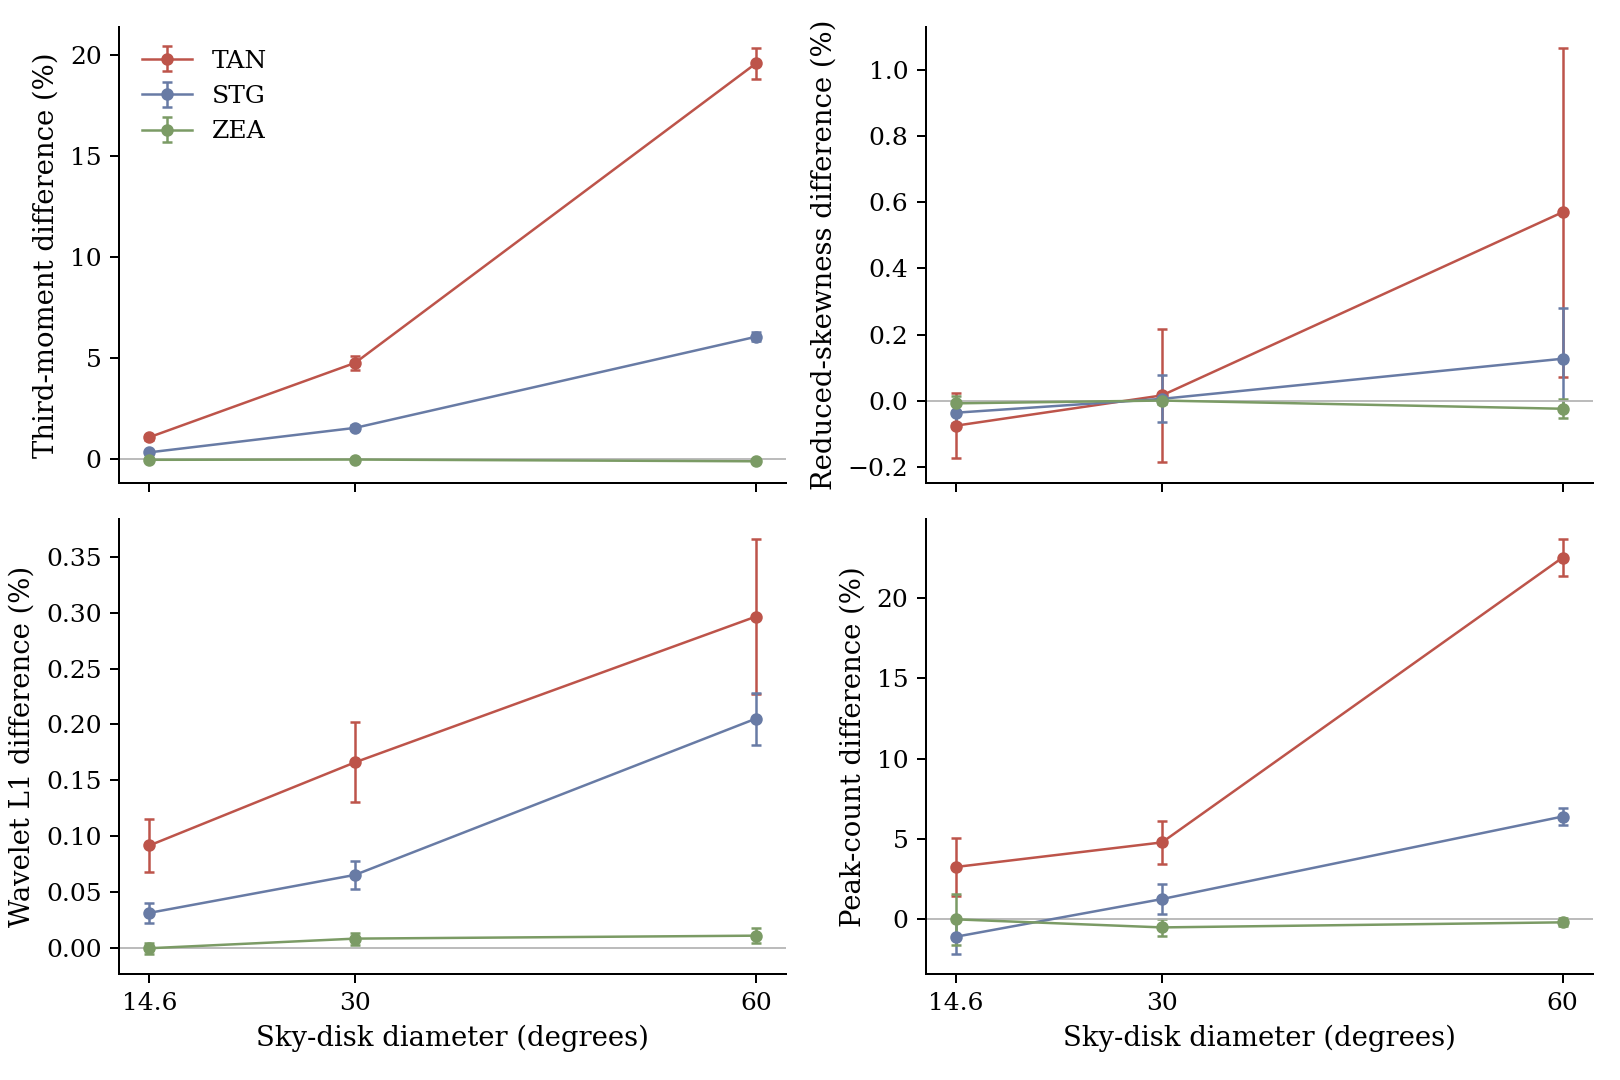
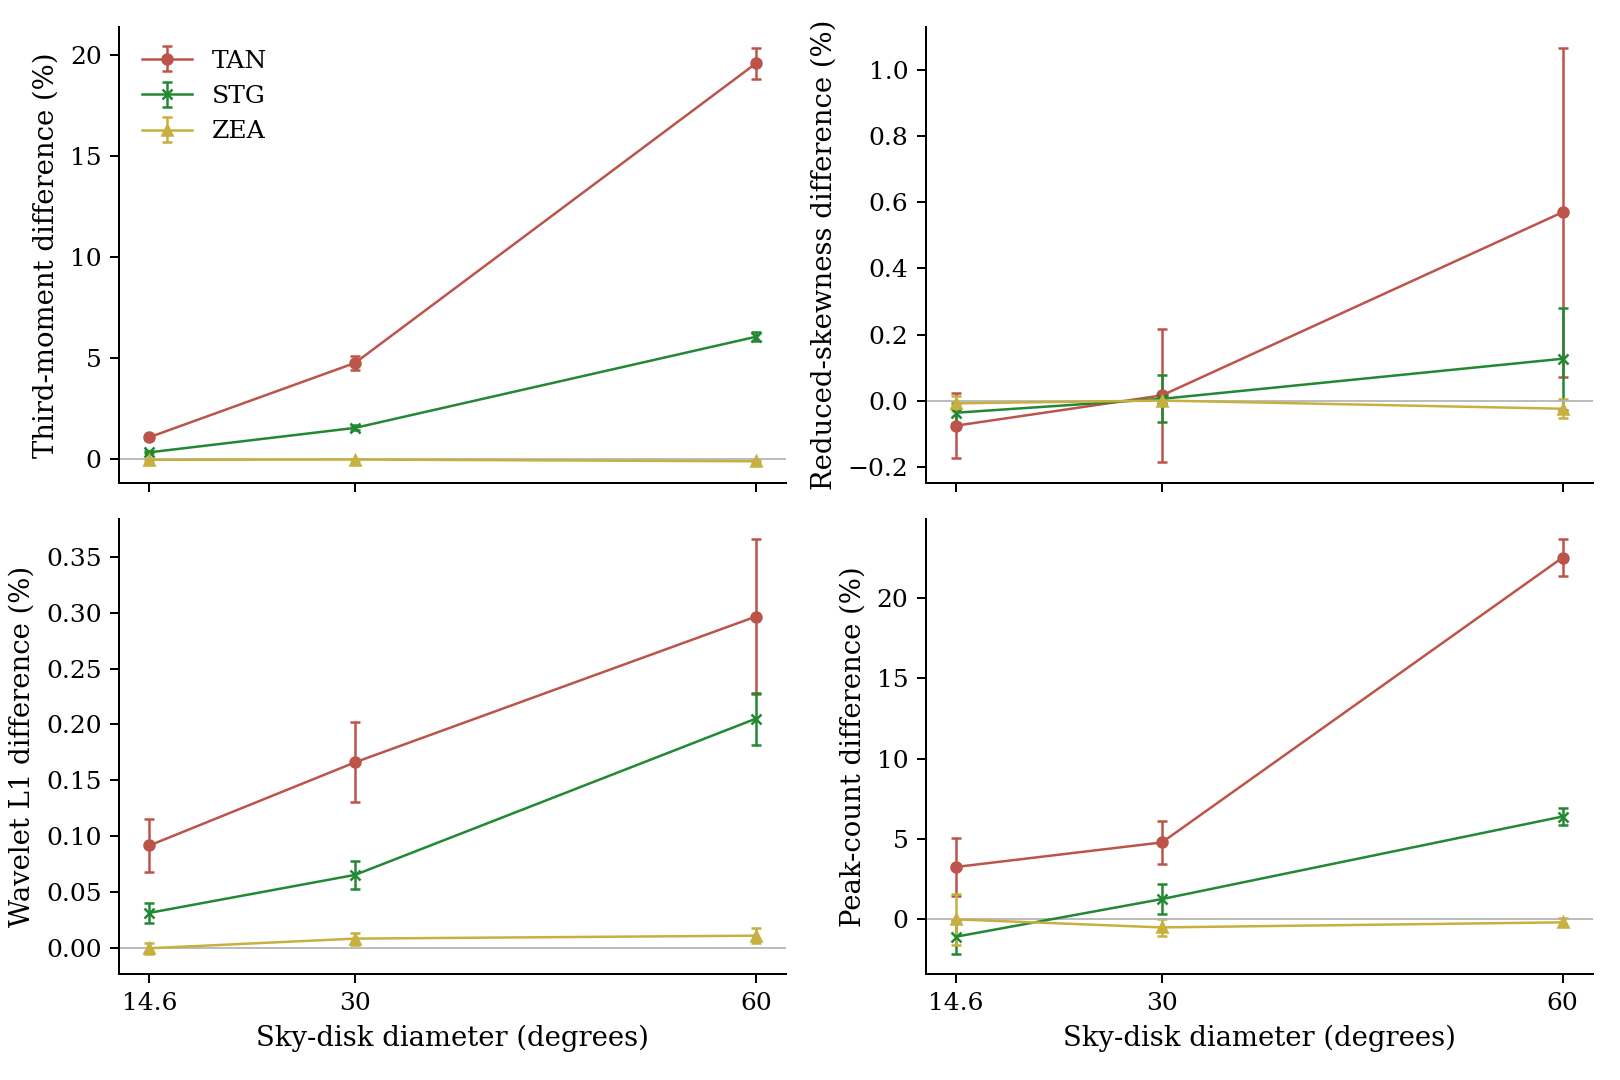
Use the paper projection colours and markers for lognormal controls

diff --git a/analysis/beyond_two_point_report.py b/analysis/beyond_two_point_report.py
@@ -11,6 +11,7 @@ import matplotlib
 matplotlib.use('Agg')
 import matplotlib.pyplot as plt
 import numpy as np
+from paper_style import PROJ_COLORS, PROJ_MARKERS
 
 ROOT = Path(__file__).resolve().parents[1]
 RESULTS = ROOT/'results/highell'
@@ -133,7 +134,8 @@ def figure(summary):
     plt.rcParams.update({'font.size': 10, 'axes.labelsize': 11,
                          'xtick.labelsize': 10, 'ytick.labelsize': 10,
                          'legend.fontsize': 10, 'text.usetex': False})
-    colors = dict(TAN='#bd544a', STG='#687ba5', ZEA='#7b9b65')
+    colors = dict(TAN='#bd544a', STG=PROJ_COLORS['ProjSTG'], ZEA=PROJ_COLORS['ProjZEA'])
+    markers = dict(TAN='o', STG=PROJ_MARKERS['ProjSTG'], ZEA=PROJ_MARKERS['ProjZEA'])
     fig, axes = plt.subplots(2, 2, figsize=(9, 6), sharex=True)
     for ax, key, label in zip(axes.flat,
             ('smooth_third', 'reduced_skewness', 'wavelet_l1', 'peaks_gt_2sigma'),
@@ -144,7 +146,7 @@ def figure(summary):
             ax.errorbar([r['diameter'] for r in rows],
                         [100*r['statistics'][key]['bias'] for r in rows],
                         yerr=[100*r['statistics'][key]['se'] for r in rows],
-                        color=color, marker='o', ms=4, lw=1, capsize=2, label=chart)
+                        color=color, marker=markers[chart], ms=4, lw=1, capsize=2, label=chart)
         ax.axhline(0, color='.7', lw=.7)
         ax.set_ylabel(label)
         ax.spines[['top', 'right']].set_visible(False)
